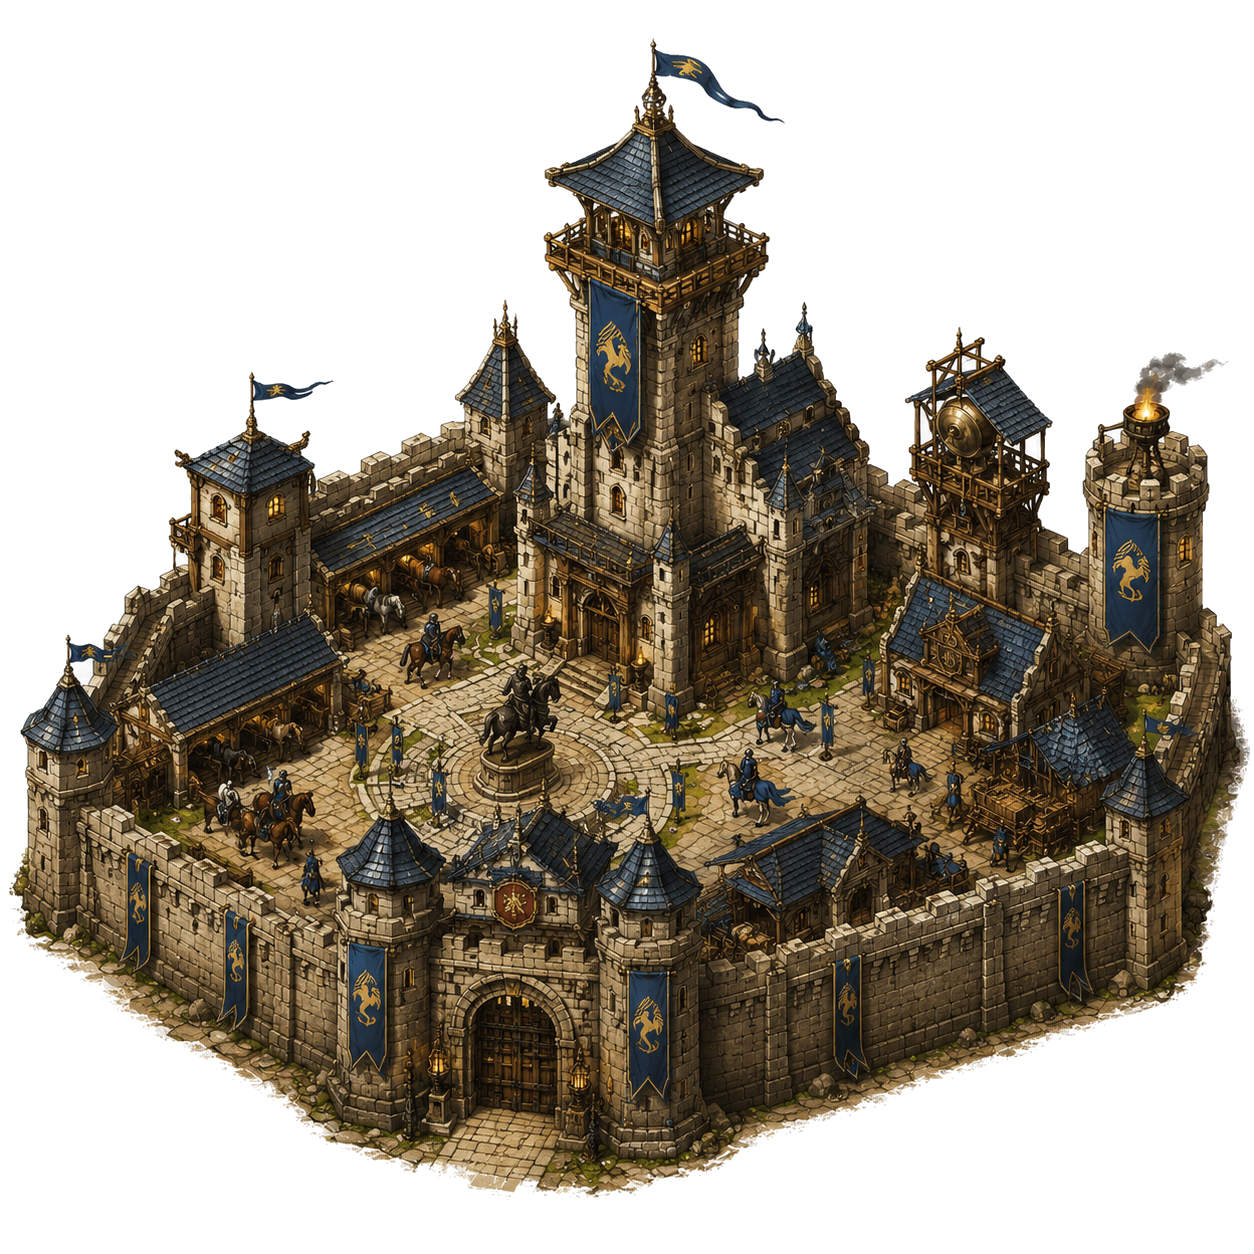
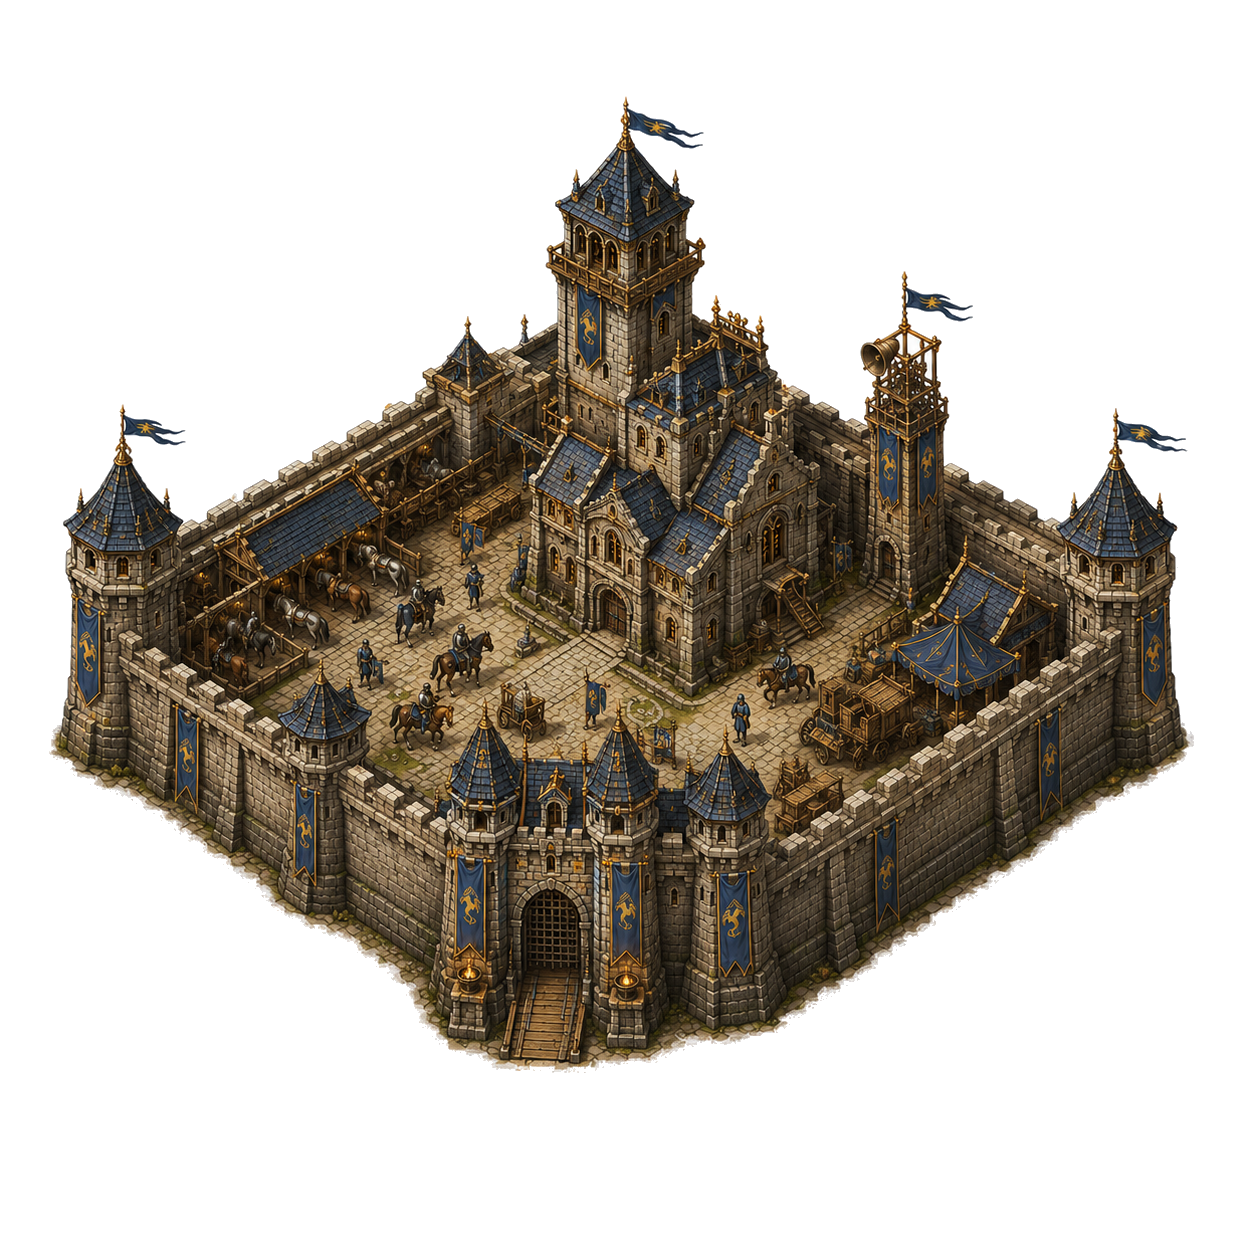
Update speed stronghold art

diff --git a/Crownlands-current-build/game.js b/Crownlands-current-build/game.js
@@ -226,7 +226,7 @@ const TRAINING_STRONGHOLD_LEVEL = 50;
 const TRAINING_STRONGHOLD_START_TROOPS = 50000000;
 const SPEED_STRONGHOLD_ID = "east_speed_stronghold";
 const SPEED_STRONGHOLD_NAME = "Speed Stronghold";
-const SPEED_STRONGHOLD_ART_SRC = "assets/speed-stronghold.png?v=20260703-speed-stronghold-art";
+const SPEED_STRONGHOLD_ART_SRC = "assets/speed-stronghold.png?v=20260704-speed-stronghold-updated";
 const SPEED_STRONGHOLD_BONUS_PERCENT = 15;
 const SPEED_STRONGHOLD_LEVEL = 50;
 const SPEED_STRONGHOLD_START_TROOPS = 50000000;

diff --git a/game.js b/game.js
@@ -226,7 +226,7 @@ const TRAINING_STRONGHOLD_LEVEL = 50;
 const TRAINING_STRONGHOLD_START_TROOPS = 50000000;
 const SPEED_STRONGHOLD_ID = "east_speed_stronghold";
 const SPEED_STRONGHOLD_NAME = "Speed Stronghold";
-const SPEED_STRONGHOLD_ART_SRC = "assets/speed-stronghold.png?v=20260703-speed-stronghold-art";
+const SPEED_STRONGHOLD_ART_SRC = "assets/speed-stronghold.png?v=20260704-speed-stronghold-updated";
 const SPEED_STRONGHOLD_BONUS_PERCENT = 15;
 const SPEED_STRONGHOLD_LEVEL = 50;
 const SPEED_STRONGHOLD_START_TROOPS = 50000000;
